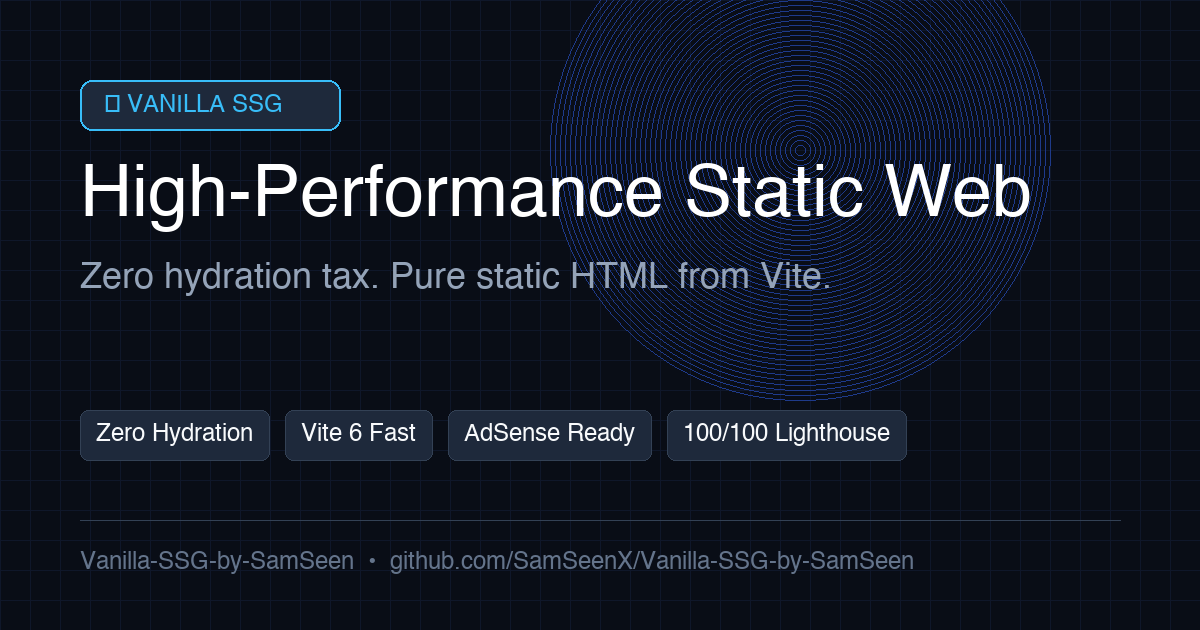
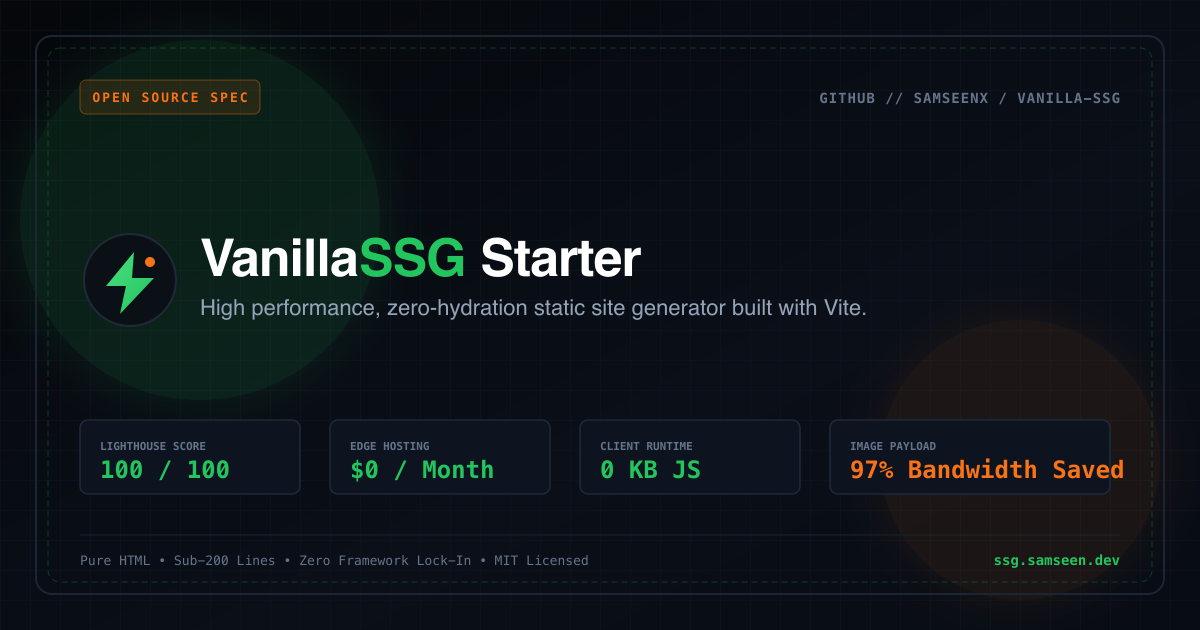
feat(branding): modernize og-image.png to kinetic lime and signal orange and mount dynamic visual card showcase on landing page

diff --git a/index.html b/index.html
@@ -229,6 +229,49 @@
         </table>
       </div>
     </section>
+
+    <section class="showcase-cards-section" style="margin: 3rem 0; border-top: 1px solid var(--border-color); padding-top: 2.5rem;">
+      <div class="status-pill">
+        <span class="status-dot"></span>
+        VISUAL CARD ASSETS
+      </div>
+      <h2>Dynamic OpenGraph Vector Showcase</h2>
+      <p style="color: var(--text-secondary); max-width: 680px; margin-bottom: 2rem;">Every content post automatically receives a branded 1200&times;630 vector preview card in Kinetic Lime and Signal Orange:</p>
+
+      <div style="display: grid; grid-template-columns: repeat(auto-fit, minmax(280px, 1fr)); gap: 1.5rem;">
+        <a href="/items/item-one/" style="text-decoration: none; border: 1px solid var(--border-color); border-radius: var(--radius-sm); overflow: hidden; background: var(--bg-surface); transition: border-color 0.2s;" onmouseover="this.style.borderColor='var(--accent)'" onmouseout="this.style.borderColor='var(--border-color)'">
+          <img src="/og/item-one.svg" alt="Zero Hydration Architecture Card" width="1200" height="630" loading="lazy" style="display: block; width: 100%; height: auto;">
+          <div style="padding: 1rem;">
+            <span style="font-family: var(--font-mono); font-size: 0.75rem; color: var(--secondary);">01 / ARCHITECTURE</span>
+            <h4 style="margin: 0.35rem 0 0; color: var(--text-primary); font-size: 1.05rem;">Zero Hydration Architecture</h4>
+          </div>
+        </a>
+
+        <a href="/items/item-two/" style="text-decoration: none; border: 1px solid var(--border-color); border-radius: var(--radius-sm); overflow: hidden; background: var(--bg-surface); transition: border-color 0.2s;" onmouseover="this.style.borderColor='var(--accent)'" onmouseout="this.style.borderColor='var(--border-color)'">
+          <img src="/og/item-two.svg" alt="Performance First CSS Card" width="1200" height="630" loading="lazy" style="display: block; width: 100%; height: auto;">
+          <div style="padding: 1rem;">
+            <span style="font-family: var(--font-mono); font-size: 0.75rem; color: var(--secondary);">02 / PERFORMANCE</span>
+            <h4 style="margin: 0.35rem 0 0; color: var(--text-primary); font-size: 1.05rem;">Performance-First CSS</h4>
+          </div>
+        </a>
+
+        <a href="/items/item-three/" style="text-decoration: none; border: 1px solid var(--border-color); border-radius: var(--radius-sm); overflow: hidden; background: var(--bg-surface); transition: border-color 0.2s;" onmouseover="this.style.borderColor='var(--accent)'" onmouseout="this.style.borderColor='var(--border-color)'">
+          <img src="/og/item-three.svg" alt="SEO & Social Cards Card" width="1200" height="630" loading="lazy" style="display: block; width: 100%; height: auto;">
+          <div style="padding: 1rem;">
+            <span style="font-family: var(--font-mono); font-size: 0.75rem; color: var(--secondary);">03 / SEO</span>
+            <h4 style="margin: 0.35rem 0 0; color: var(--text-primary); font-size: 1.05rem;">SEO &amp; OpenGraph Standard</h4>
+          </div>
+        </a>
+      </div>
+
+      <div style="margin-top: 2rem; border: 1px solid var(--border-color); border-radius: var(--radius-sm); overflow: hidden; background: var(--bg-surface);">
+        <picture class="responsive-figure" style="margin: 0; border: none;">
+          <source type="image/avif" srcset="/images/480w/og-image.avif 480w, /images/1200w/og-image.avif 1200w" sizes="(max-width: 640px) 100vw, 1200px">
+          <source type="image/webp" srcset="/images/480w/og-image.webp 480w, /images/1200w/og-image.webp 1200w" sizes="(max-width: 640px) 100vw, 1200px">
+          <img src="/images/1200w/og-image.jpg" alt="VanillaSSG Universal Spec Banner" width="1200" height="630" loading="lazy" decoding="async">
+        </picture>
+      </div>
+    </section>
   </main>
 
   <footer class="site-footer">

diff --git a/items/item-three.html b/items/item-three.html
@@ -113,7 +113,7 @@
       <p style="color: var(--text-secondary);">Modular simplicity that keeps your codebase clean and AI-friendly.</p>
     </article>
     <div class="prose">
-      <p>Software systems deteriorate when individual files grow into unmanageable monoliths. Imposing a strict <a href="/items/item-three/" class="cross-ref-link" title="Explore 200-line Rule Best Practices">200-line</a> limit forces disciplined architecture.</p>
+      <p>Software systems deteriorate when individual files grow into unmanageable monoliths. Imposing a strict 200-line limit forces disciplined architecture.</p>
 <h2>Why 200 Lines Matters</h2>
 <p>When files stay concise, every module has a single clear purpose.<br><ul><li><strong>Fast Cognitive Load</strong>: Developers can review and understand an entire file in under two minutes.</li><li><strong>AI Pairing Resilience</strong>: Automated coding tools and language models maintain higher accuracy without context saturation.</li><li><strong>Easy Testing</strong>: Compact functions with explicit inputs and outputs are trivial to verify and refactor.</li></ul></p>
       <p style="margin-top: 2rem;"><a href="/items/" class="btn btn-secondary">&larr; Back to Collection</a></p>

diff --git a/items/item-one.html b/items/item-one.html
@@ -115,7 +115,7 @@
     <div class="prose">
       <p>Pre-rendering dynamic data at build time completely removes the need for client-side JavaScript execution during initial page load.</p>
 <h2>The Problem With Mega-Bundles</h2>
-<p>When client-side frameworks boot up, the browser must download, parse, and execute megabytes of script code before the user can interact with the page. This bottleneck triggers noticeable Cumulative Layout Shifts and degrades <a href="/items/item-two/" class="cross-ref-link" title="Explore Core Web Vitals & Performance">Core Web Vitals</a> on mobile hardware.</p>
+<p>When client-side frameworks boot up, the browser must download, parse, and execute megabytes of script code before the user can interact with the page. This bottleneck triggers noticeable Cumulative Layout Shifts and degrades Core Web Vitals on mobile hardware.</p>
 <h2>The Zero-Hydration Advantage</h2>
 <picture class="responsive-figure">
   <source type="image/avif" srcset="/images/480w/sample-hero.avif 480w, /images/1200w/sample-hero.avif 1200w" sizes="(max-width: 640px) 100vw, 1200px">
